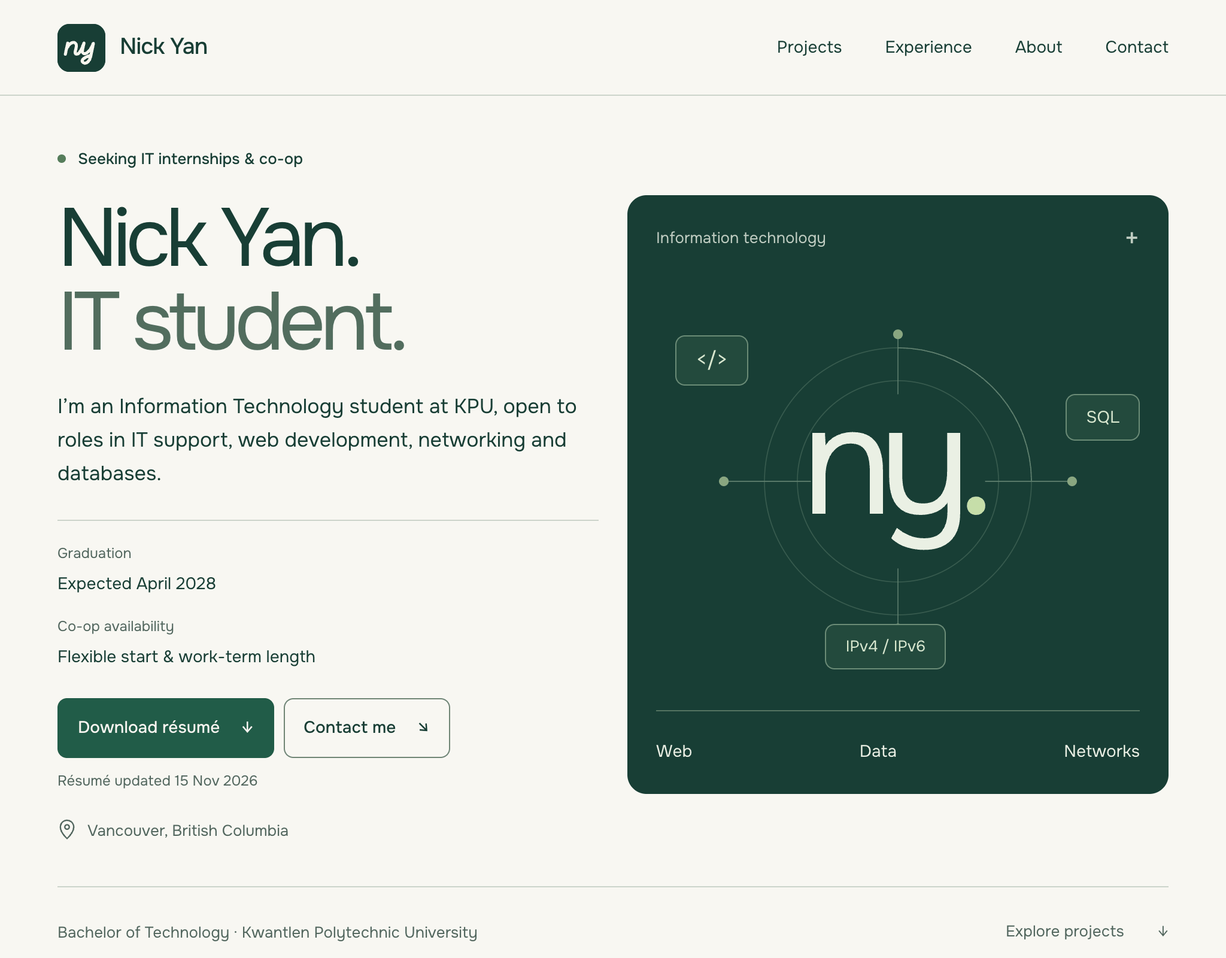
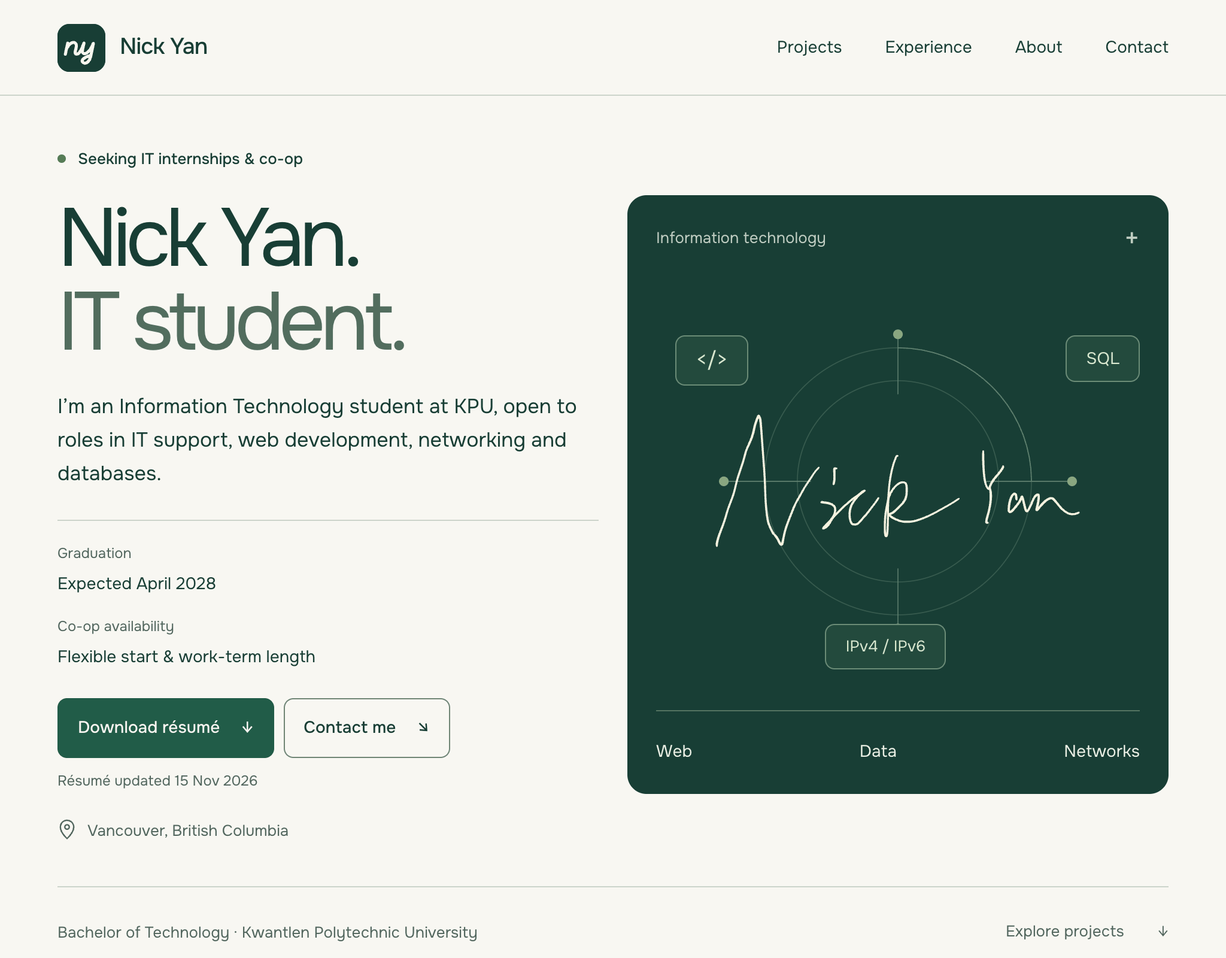
Add handwritten signature and refresh portfolio preview

diff --git a/styles.css b/styles.css
@@ -17,7 +17,7 @@
 /* Navigation stays in one place while the page scrolls normally. */
 .site-header{position:fixed;inset:0 0 auto;z-index:30;height:var(--nav);background:var(--bg);border-bottom:1px solid var(--line)}.nav-wrap{height:100%;display:flex;align-items:center;justify-content:space-between;gap:24px}.wordmark{display:inline-flex;align-items:center;gap:12px;min-height:44px;font-weight:500;font-size:19px;letter-spacing:-.5px}.monogram{display:grid;place-content:center;background:var(--ink);color:var(--bg);width:40px;height:40px;border-radius:10px;font-size:21px;letter-spacing:-1px}.nav nav{display:flex;align-items:center;gap:36px}.nav nav a{font-size:14px;min-height:44px;display:inline-flex;align-items:center;gap:8px;position:relative}.nav nav a::after{content:'';position:absolute;left:0;right:0;bottom:7px;height:1px;background:currentColor;transform:scaleX(0);transform-origin:left;transition:transform .18s var(--ease)}.nav nav a:hover::after,.nav nav a[aria-current]::after,.nav nav a:focus-visible::after{transform:scaleX(1)}.menu-toggle{display:none;border:1px solid var(--line-strong);background:transparent;border-radius:8px;min-height:44px;padding:0 12px;align-items:center;gap:12px}.menu-lines{position:relative;width:16px;height:10px;border-top:1px solid;border-bottom:1px solid}.menu-toggle[aria-expanded=true] .menu-lines{border:0}.menu-toggle[aria-expanded=true] .menu-lines::before,.menu-toggle[aria-expanded=true] .menu-lines::after{content:'';position:absolute;inset:4px 0 auto;height:1px;background:currentColor;transform:rotate(45deg)}.menu-toggle[aria-expanded=true] .menu-lines::after{transform:rotate(-45deg)}
 /* A spacious split hero; the identity drawing represents areas of study. */
-.hero{min-height:100svh;padding-top:calc(var(--nav) + 80px);padding-bottom:24px;display:flex}.hero-layout{display:grid;grid-template-columns:1.1fr 1fr;column-gap:64px;row-gap:64px;align-content:space-between}.hero-copy{align-self:center}.availability{font-size:13px;display:flex;align-items:center;gap:10px;font-weight:500}.status-dot{display:inline-block;width:7px;height:7px;border-radius:50%;background:#537b42;flex-shrink:0}.hero h1{font-size:clamp(64px,7.5vw,108px);line-height:1.01;letter-spacing:-.065em;margin:26px 0}.title-line{display:block;overflow:hidden;padding-bottom:.1em;margin-bottom:-.1em}.title-line>span{display:block}.hero h1 .title-line:last-child{color:#526d5e}.hero-intro{font-size:18px;line-height:1.65;max-width:440px}.hero-actions{display:flex;gap:12px;margin-top:32px;flex-wrap:wrap}.btn{display:inline-flex;align-items:center;justify-content:center;gap:18px;min-height:50px;padding:12px 20px;font-size:14px;font-weight:500;line-height:1.4;border-radius:8px;border:1px solid transparent}.btn--primary{background:var(--action);color:var(--p-action-ink)}.btn--secondary{border-color:var(--line-strong);background:transparent;color:var(--ink)}.hero-location{display:flex;align-items:center;gap:9px;font-size:13px;color:var(--muted);margin-top:32px}.hero-visual{background:#183e35;color:#eaf0e4;border-radius:var(--radius);padding:28px;display:flex;flex-direction:column;min-height:480px;max-height:580px;align-self:stretch;overflow:hidden}.visual-top{display:flex;align-items:center;justify-content:space-between;font-size:13px;color:#c0cec2}.visual-plus{font-size:24px;line-height:1}.identity-art{position:relative;flex:1;display:grid;place-items:center;min-height:320px}.circuit{position:absolute;inset:0;width:100%;height:100%;stroke:#86a58e;stroke-width:1;opacity:.65}.circuit circle:not(.circuit-end){stroke-opacity:.45}.circuit-end{fill:#c6dea9;stroke:none}.identity-mark{font-size:clamp(110px,12.5vw,180px);line-height:1;letter-spacing:-.09em;position:relative;padding-bottom:30px;padding-right:10px}.identity-mark>span{color:#c6dea9}.art-label{position:absolute;border:1px solid #6b8c76;border-radius:8px;background:#234a3d;color:#d8e8cd;padding:10px 16px;font-size:17px;line-height:1.2}.art-label-web{top:18%;left:4%}.art-label-data{right:0;top:31%;font-size:14px}.art-label-network{left:35%;bottom:9%;font-size:13px}.focus-areas{display:flex;border-top:1px solid #547461;padding-top:22px;justify-content:space-between;font-size:14px}.hero-foot{grid-column:1/-1;display:flex;justify-content:space-between;align-items:center;border-top:1px solid var(--line);padding-top:16px;gap:24px;font-size:13px;color:var(--muted);min-height:56px}.hero-foot a{min-height:44px;display:inline-flex;align-items:center;gap:28px}
+.hero{min-height:100svh;padding-top:calc(var(--nav) + 80px);padding-bottom:24px;display:flex}.hero-layout{display:grid;grid-template-columns:1.1fr 1fr;column-gap:64px;row-gap:64px;align-content:space-between}.hero-copy{align-self:center}.availability{font-size:13px;display:flex;align-items:center;gap:10px;font-weight:500}.status-dot{display:inline-block;width:7px;height:7px;border-radius:50%;background:#537b42;flex-shrink:0}.hero h1{font-size:clamp(64px,7.5vw,108px);line-height:1.01;letter-spacing:-.065em;margin:26px 0}.title-line{display:block;overflow:hidden;padding-bottom:.1em;margin-bottom:-.1em}.title-line>span{display:block}.hero h1 .title-line:last-child{color:#526d5e}.hero-intro{font-size:18px;line-height:1.65;max-width:440px}.hero-actions{display:flex;gap:12px;margin-top:32px;flex-wrap:wrap}.btn{display:inline-flex;align-items:center;justify-content:center;gap:18px;min-height:50px;padding:12px 20px;font-size:14px;font-weight:500;line-height:1.4;border-radius:8px;border:1px solid transparent}.btn--primary{background:var(--action);color:var(--p-action-ink)}.btn--secondary{border-color:var(--line-strong);background:transparent;color:var(--ink)}.hero-location{display:flex;align-items:center;gap:9px;font-size:13px;color:var(--muted);margin-top:32px}.hero-visual{background:#183e35;color:#eaf0e4;border-radius:var(--radius);padding:28px;display:flex;flex-direction:column;min-height:480px;max-height:580px;align-self:stretch;overflow:hidden}.visual-top{display:flex;align-items:center;justify-content:space-between;font-size:13px;color:#c0cec2}.visual-plus{font-size:24px;line-height:1}.identity-art{position:relative;flex:1;display:grid;place-items:center;min-height:320px}.circuit{position:absolute;inset:0;width:100%;height:100%;stroke:#86a58e;stroke-width:1;opacity:.65}.circuit circle:not(.circuit-end){stroke-opacity:.45}.circuit-end{fill:#c6dea9;stroke:none}.identity-signature{position:absolute;inset:0;margin:auto;width:76%;max-width:360px;height:45%;object-fit:contain}.art-label{position:absolute;border:1px solid #6b8c76;border-radius:8px;background:#234a3d;color:#d8e8cd;padding:10px 16px;font-size:17px;line-height:1.2}.art-label-web{top:18%;left:4%}.art-label-data{right:0;top:18%;font-size:14px}.art-label-network{left:35%;bottom:9%;font-size:13px}.focus-areas{display:flex;border-top:1px solid #547461;padding-top:22px;justify-content:space-between;font-size:14px}.hero-foot{grid-column:1/-1;display:flex;justify-content:space-between;align-items:center;border-top:1px solid var(--line);padding-top:16px;gap:24px;font-size:13px;color:var(--muted);min-height:56px}.hero-foot a{min-height:44px;display:inline-flex;align-items:center;gap:28px}
 .section{padding:112px 0;min-height:100svh}.section-heading{display:flex;justify-content:space-between;align-items:flex-start;gap:32px;margin-bottom:56px}.section-heading>p{font-size:16px;color:var(--ink);min-width:260px}.heading-dot{color:#63845c}.projects{background:#eeeee6}.project-grid{display:grid;grid-template-columns:repeat(3,minmax(0,1fr));gap:24px;align-items:start}.project{min-width:0}.project-visual{height:240px;border-radius:var(--radius);display:flex;align-items:center;justify-content:center;overflow:hidden}.project-copy{padding-top:24px}.project-meta{color:var(--muted);font-size:13px;margin-bottom:8px}.project-copy>p:not(.project-meta){margin-top:16px;min-height:80px}.project h3{font-size:25px;letter-spacing:-.04em}.tags{list-style:none;padding:0;display:flex;flex-wrap:wrap;gap:8px;margin:24px 0}.tags li{font-size:12px;padding:4px 8px;border:1px solid #b5c2b0;border-radius:5px;line-height:1.4}details{border-top:1px solid #b9c6b5;border-bottom:1px solid #b9c6b5}summary{list-style:none;display:flex;align-items:center;justify-content:space-between;min-height:52px;padding:10px 0;font-size:14px;font-weight:500;gap:12px}summary::-webkit-details-marker{display:none}summary span{font-size:24px;font-weight:400;line-height:1;transition:transform .2s}details[open] summary span{transform:rotate(45deg)}summary:hover{color:#356d3c}.project-detail{padding:0 0 20px;font-size:15px}.project-detail .detail-context{font-size:13px;color:var(--muted);margin-top:16px}.projects-footer{display:flex;flex-direction:column;align-items:flex-end;gap:8px;margin-top:48px;font-size:14px;text-align:right}.projects-footer a{min-height:44px;display:inline-flex;align-items:center;gap:24px}.link{--line-strong:currentColor}
 /* Small conceptual diagrams, without pretending to be project screenshots. */
 .visual-web{background:#dce6d2}.mini-browser{width:78%;border:1px solid #8ba27f;border-radius:9px;background:#f8f7f2;overflow:hidden}.browser-bar{height:30px;border-bottom:1px solid #c3cebc;display:flex;align-items:center;gap:4px;padding:0 10px}.browser-bar i{width:4px;height:4px;background:#8ba27f;border-radius:50%}.browser-bar span{margin-left:auto;font-size:10px;color:#53694a}.browser-body{padding:18px}.mini-wordmark{font-size:14px;letter-spacing:-.6px;font-weight:500}.mini-columns{display:grid;grid-template-columns:1fr 1fr;gap:16px;align-items:center;margin-top:14px}.mini-line{height:5px;width:70%;background:#aabda0;margin:8px 0}.mini-line.long{width:100%}.mini-button{width:38px;height:14px;margin-top:14px;background:#35604b;border-radius:2px}.mini-portrait{display:grid;place-items:center;height:66px;background:#234a3d;color:#deebd4;font-size:38px;line-height:1;letter-spacing:-3px;border-radius:3px}.mini-footer{display:flex;gap:7px;margin-top:18px}.mini-footer i{height:3px;background:#ced7c6;width:33%}.visual-data{background:#e5e3d8;padding:20px;gap:0}.schema-table{font-size:10px;border:1px solid #9ca68d;border-radius:7px;overflow:hidden;width:42%;background:#f8f7f2}.schema-table strong{font-weight:500;font-size:13px;display:block;background:#d0d8c3;padding:10px}.schema-table span{display:block;padding:8px;border-top:1px solid #d4daca;white-space:nowrap}.schema-table b{font-size:9px;font-weight:500;background:#dbe4cf;padding:2px;margin-right:2px}.schema-connector{width:16%;display:flex;align-items:center;font-size:11px;gap:3px}.schema-connector i{height:1px;background:#8b9f7e;flex:1}.visual-network{background:#dbe4df}.topology{width:76%;font-size:13px;position:relative}.router{width:105px;margin:auto;border:1px solid #648576;background:#f8f7f2;border-radius:6px;padding:9px 12px;display:flex;justify-content:space-between;align-items:center}.router span{font-size:21px;line-height:1}.network-trunk{height:27px;width:1px;background:#648576;margin:auto}.switch-row{display:flex;justify-content:space-between;position:relative;padding-top:20px}.switch-row::before{content:'';position:absolute;left:17%;right:17%;top:0;border-top:1px solid #648576}.switch-row>div{border:1px solid #648576;background:#f8f7f2;border-radius:5px;padding:8px 12px;position:relative}.switch-row>div::before{content:'';position:absolute;top:-21px;left:50%;height:20px;width:1px;background:#648576}.endpoint-row{display:flex;justify-content:space-around;margin-top:26px}.endpoint-row i{width:24px;height:17px;background:#c0d4c4;border:1px solid #648576;border-radius:2px;position:relative}.endpoint-row i::before{content:'';position:absolute;left:50%;top:-27px;height:26px;width:1px;background:#8aa594}
@@ -26,8 +26,8 @@
 .contact{background:#183e35;color:#f8f7f2;padding-bottom:32px;--bg:#183e35;--ink:#f8f7f2;--line:#547461;--muted:#bdcdbc;--action:#e1edce}.contact .status-dot{background:#bfdaa1}.contact .availability{color:#c8d8c0}.contact h2{font-size:clamp(60px,8vw,116px);letter-spacing:-.06em;line-height:1.04;margin-top:28px}.contact h2>span{color:#bed7a2}.contact-layout{display:grid;grid-template-columns:1.5fr 1fr;gap:80px;align-items:start;margin-top:48px}.contact-layout p{color:#d4dfd0;font-size:17px}.contact-email{display:inline-flex;align-items:center;gap:28px;min-height:50px;font-size:clamp(17px,2vw,27px);margin-top:24px;letter-spacing:-.03em}.contact-phone{display:flex;align-items:center;gap:16px;width:fit-content;min-height:44px;margin-top:8px;font-size:18px;letter-spacing:.01em;color:#d4dfd0}.contact-links a{display:flex;justify-content:space-between;align-items:center;gap:24px;min-height:56px;border-bottom:1px solid #547461;font-size:16px;transition:color .2s}.contact-links a:first-child{border-top:1px solid #547461}.contact-links a:hover{color:#c6e6a5}.contact-links a>span{font-size:13px}.contact :focus-visible{outline-color:#c6e6a5}.site-footer{display:flex;justify-content:space-between;align-items:center;gap:32px;border-top:1px solid #547461;margin-top:80px;padding-top:24px;font-size:13px;color:#c8d8c0}.site-footer>a{min-height:44px;display:inline-flex;align-items:center}.footer-name{font-size:26px;color:#f8f7f2;letter-spacing:-1px}.footer-name>span{color:#bed7a2}
 @media(min-width:1600px){.hero{padding-top:calc(var(--nav) + 100px);padding-bottom:32px}.hero-layout{row-gap:80px}}
 @media(max-width:1199px){:root{--gut:48px}.hero{padding-top:calc(var(--nav) + 56px)}.hero-layout{gap:48px 40px}.hero h1{font-size:clamp(60px,7.1vw,88px)}.hero-visual{min-height:440px;padding:24px}.hero-intro{font-size:17px}.hero-actions{gap:8px}.btn{padding:12px 16px}.project-visual{height:210px}.project h3{font-size:22px}.project-copy>p:not(.project-meta){min-height:106px}.schema-table span{font-size:9px;padding:8px 4px}.schema-table b{font-size:8px}.about-grid{gap:56px}.experience-entry{gap:24px}.section{padding:96px 0}.contact{padding-bottom:32px}}
-@media(max-width:900px){:root{--nav:72px}.nav nav{gap:24px}.hero{padding-top:112px}.hero-layout{grid-template-columns:1fr;gap:32px}.hero-copy{max-width:620px}.hero h1{font-size:76px;margin:20px 0}.hero-intro{max-width:570px}.hero-actions{margin-top:24px}.hero-location{margin-top:24px}.hero-visual{height:300px;min-height:0;max-height:none}.identity-art{min-height:0}.identity-mark{font-size:130px;padding-bottom:15px}.art-label-web{top:12%;left:22%}.art-label-data{right:21%;top:22%}.art-label-network{left:42%;bottom:6%}.focus-areas{padding-top:14px}.hero-foot{grid-column:1;gap:16px}.section-heading{display:block;margin-bottom:40px}.section-heading>p{margin-top:20px}.project-grid{grid-template-columns:1fr;gap:40px}.project{display:grid;grid-template-columns:1fr 1fr;gap:28px;align-items:start}.project-visual{height:255px}.project-copy{padding-top:0}.project-copy>p:not(.project-meta){min-height:0}.tags{margin:20px 0}.experience-entry{grid-template-columns:1fr 1.7fr}.experience-entry>p{grid-column:2}.experience-entry>div:first-child{grid-row:1/3}.about-grid{gap:40px}.skill-row{display:block;padding:16px 0}.skill-row p{margin-top:10px}.education-mark{font-size:80px}.languages p{display:block}.languages p>span{display:block;text-align:left;margin-top:2px}.contact-layout{gap:40px}.contact h2{font-size:84px}.contact-email{gap:12px}}
-@media(max-width:620px){:root{--gut:24px;--nav:64px}.wordmark{font-size:17px;gap:10px}.monogram{width:34px;height:34px;font-size:19px;border-radius:8px}.js .menu-toggle{display:inline-flex}.js .nav nav{display:none;position:fixed;top:var(--nav);left:0;right:0;bottom:0;background:var(--bg);padding:32px 24px;overflow-y:auto;align-content:start;gap:0}.js .nav nav.is-open{display:flex;flex-direction:column;align-items:stretch}.js .nav nav a{font-size:30px;min-height:76px;border-bottom:1px solid var(--line);justify-content:space-between}.js .nav nav a::after{display:none}body.menu-open{overflow:hidden}.hero{padding-top:96px;padding-bottom:24px}.hero-layout{gap:28px}.hero h1{font-size:clamp(48px,12.8vw,72px);margin:20px 0}.hero-intro{font-size:16px;line-height:1.6}.availability{font-size:12px;gap:8px}.hero-actions{display:grid;grid-template-columns:1fr;margin-top:24px;gap:10px}.btn{min-height:46px;font-size:14px;justify-content:space-between;padding-inline:16px}.hero-location{font-size:12px;margin-top:20px}.hero-visual{height:235px;padding:20px;border-radius:12px}.visual-top{font-size:11px}.visual-plus{font-size:19px}.identity-mark{font-size:100px;padding-bottom:14px}.art-label{padding:6px 10px;border-radius:5px}.art-label-web{top:14%;left:7%;font-size:13px}.art-label-data{right:3%;top:24%;font-size:11px}.art-label-network{left:36%;bottom:2%;font-size:10px}.focus-areas{font-size:12px;padding-top:12px}.hero-foot{display:none}.section{padding:80px 0;min-height:0}.section-heading{margin-bottom:32px}.section-heading>p{font-size:15px;margin-top:16px;min-width:0}.section-heading>p br{display:none}h2{font-size:34px;letter-spacing:-.05em}.project-grid{gap:48px}.project{display:block}.project-visual{height:232px;border-radius:12px}.project-copy{padding-top:20px}.project h3{font-size:25px}.project-copy>p:not(.project-meta){font-size:16px;margin-top:12px}.project-meta{font-size:13px}.tags{margin:20px 0}.tags li{font-size:12px}summary{font-size:14px;min-height:52px}.schema-table{font-size:11px}.schema-table strong{font-size:14px;padding:10px}.schema-table span{font-size:10px;padding:8px}.schema-table b{font-size:9px}.projects-footer{margin-top:32px;font-size:14px}.experience-statement{font-size:27px;line-height:1.4;margin-top:28px}.experience-list{margin-top:36px}.experience-entry{display:block;padding:28px 0}.experience-entry>div:first-child{display:flex;align-items:center;justify-content:space-between;gap:12px;margin-bottom:20px}.experience-date{font-size:12px;margin:0;white-space:nowrap}.experience-category{font-size:11px;text-align:right}.experience-entry h3{font-size:26px}.experience-entry>p{margin-top:16px}.about-grid{grid-template-columns:1fr;gap:44px}.education-mark{font-size:90px;margin-bottom:28px}.education h3{font-size:25px}.languages p{display:flex}.languages p>span{text-align:right;margin:0;max-width:56%}.skills>h3{font-size:25px;margin-bottom:24px}.skill-row{display:grid;grid-template-columns:.9fr 1.3fr;gap:16px;padding:18px 0}.skill-row p{margin-top:0;font-size:13px}.skill-row h4{font-size:13px}.contact{padding-bottom:24px}.contact h2{font-size:clamp(56px,15vw,80px);margin-top:24px}.contact-layout{grid-template-columns:1fr;gap:32px;margin-top:32px}.contact-layout p{font-size:16px}.contact-layout p br{display:none}.contact-email{font-size:clamp(15px,4.7vw,22px);letter-spacing:-.025em;gap:14px;margin-top:18px}.contact-phone{font-size:16px}.contact-links a{font-size:16px;min-height:56px}.site-footer{display:grid;grid-template-columns:1fr auto;gap:12px;margin-top:48px;padding-top:20px}.site-footer p{grid-column:1/-1;grid-row:2;font-size:12px}.footer-name{font-size:24px}
+@media(max-width:900px){:root{--nav:72px}.nav nav{gap:24px}.hero{padding-top:112px}.hero-layout{grid-template-columns:1fr;gap:32px}.hero-copy{max-width:620px}.hero h1{font-size:76px;margin:20px 0}.hero-intro{max-width:570px}.hero-actions{margin-top:24px}.hero-location{margin-top:24px}.hero-visual{height:300px;min-height:0;max-height:none}.identity-art{min-height:0}.art-label-web{top:3%;left:12%}.art-label-data{right:12%;top:3%}.art-label-network{left:50%;bottom:0;transform:translateX(-50%)}.focus-areas{padding-top:14px}.hero-foot{grid-column:1;gap:16px}.section-heading{display:block;margin-bottom:40px}.section-heading>p{margin-top:20px}.project-grid{grid-template-columns:1fr;gap:40px}.project{display:grid;grid-template-columns:1fr 1fr;gap:28px;align-items:start}.project-visual{height:255px}.project-copy{padding-top:0}.project-copy>p:not(.project-meta){min-height:0}.tags{margin:20px 0}.experience-entry{grid-template-columns:1fr 1.7fr}.experience-entry>p{grid-column:2}.experience-entry>div:first-child{grid-row:1/3}.about-grid{gap:40px}.skill-row{display:block;padding:16px 0}.skill-row p{margin-top:10px}.education-mark{font-size:80px}.languages p{display:block}.languages p>span{display:block;text-align:left;margin-top:2px}.contact-layout{gap:40px}.contact h2{font-size:84px}.contact-email{gap:12px}}
+@media(max-width:620px){:root{--gut:24px;--nav:64px}.wordmark{font-size:17px;gap:10px}.monogram{width:34px;height:34px;font-size:19px;border-radius:8px}.js .menu-toggle{display:inline-flex}.js .nav nav{display:none;position:fixed;top:var(--nav);left:0;right:0;bottom:0;background:var(--bg);padding:32px 24px;overflow-y:auto;align-content:start;gap:0}.js .nav nav.is-open{display:flex;flex-direction:column;align-items:stretch}.js .nav nav a{font-size:30px;min-height:76px;border-bottom:1px solid var(--line);justify-content:space-between}.js .nav nav a::after{display:none}body.menu-open{overflow:hidden}.hero{padding-top:96px;padding-bottom:24px}.hero-layout{gap:28px}.hero h1{font-size:clamp(48px,12.8vw,72px);margin:20px 0}.hero-intro{font-size:16px;line-height:1.6}.availability{font-size:12px;gap:8px}.hero-actions{display:grid;grid-template-columns:1fr;margin-top:24px;gap:10px}.btn{min-height:46px;font-size:14px;justify-content:space-between;padding-inline:16px}.hero-location{font-size:12px;margin-top:20px}.hero-visual{height:235px;padding:20px;border-radius:12px}.visual-top{font-size:11px}.visual-plus{font-size:19px}.art-label{padding:6px 10px;border-radius:5px}.art-label-web{top:14%;left:7%;font-size:13px}.art-label-data{right:3%;top:24%;font-size:11px}.art-label-network{left:36%;bottom:2%;font-size:10px}.focus-areas{font-size:12px;padding-top:12px}.hero-foot{display:none}.section{padding:80px 0;min-height:0}.section-heading{margin-bottom:32px}.section-heading>p{font-size:15px;margin-top:16px;min-width:0}.section-heading>p br{display:none}h2{font-size:34px;letter-spacing:-.05em}.project-grid{gap:48px}.project{display:block}.project-visual{height:232px;border-radius:12px}.project-copy{padding-top:20px}.project h3{font-size:25px}.project-copy>p:not(.project-meta){font-size:16px;margin-top:12px}.project-meta{font-size:13px}.tags{margin:20px 0}.tags li{font-size:12px}summary{font-size:14px;min-height:52px}.schema-table{font-size:11px}.schema-table strong{font-size:14px;padding:10px}.schema-table span{font-size:10px;padding:8px}.schema-table b{font-size:9px}.projects-footer{margin-top:32px;font-size:14px}.experience-statement{font-size:27px;line-height:1.4;margin-top:28px}.experience-list{margin-top:36px}.experience-entry{display:block;padding:28px 0}.experience-entry>div:first-child{display:flex;align-items:center;justify-content:space-between;gap:12px;margin-bottom:20px}.experience-date{font-size:12px;margin:0;white-space:nowrap}.experience-category{font-size:11px;text-align:right}.experience-entry h3{font-size:26px}.experience-entry>p{margin-top:16px}.about-grid{grid-template-columns:1fr;gap:44px}.education-mark{font-size:90px;margin-bottom:28px}.education h3{font-size:25px}.languages p{display:flex}.languages p>span{text-align:right;margin:0;max-width:56%}.skills>h3{font-size:25px;margin-bottom:24px}.skill-row{display:grid;grid-template-columns:.9fr 1.3fr;gap:16px;padding:18px 0}.skill-row p{margin-top:0;font-size:13px}.skill-row h4{font-size:13px}.contact{padding-bottom:24px}.contact h2{font-size:clamp(56px,15vw,80px);margin-top:24px}.contact-layout{grid-template-columns:1fr;gap:32px;margin-top:32px}.contact-layout p{font-size:16px}.contact-layout p br{display:none}.contact-email{font-size:clamp(15px,4.7vw,22px);letter-spacing:-.025em;gap:14px;margin-top:18px}.contact-phone{font-size:16px}.contact-links a{font-size:16px;min-height:56px}.site-footer{display:grid;grid-template-columns:1fr auto;gap:12px;margin-top:48px;padding-top:20px}.site-footer p{grid-column:1/-1;grid-row:2;font-size:12px}.footer-name{font-size:24px}
 html:not(.js) .site-header{position:relative;height:auto}html:not(.js) .nav-wrap{flex-direction:column;align-items:flex-start;padding-block:16px;gap:12px}html:not(.js) .nav nav{display:flex;gap:20px;flex-wrap:wrap}html:not(.js) .nav nav a{font-size:13px}html:not(.js) .hero{padding-top:40px}}
 @media(prefers-reduced-motion:reduce){html{scroll-behavior:auto}*,*::before,*::after{animation-duration:.01ms!important;transition-duration:.01ms!important}.experience-statement .word{color:var(--ink)!important}}
 @media print{.site-header,.hero-visual,.project-visual,.hero-foot,.hero-actions,.contact-links,.skip-link{display:none!important}.wrap{width:100%}.hero,.section{padding:24px 0;min-height:0;height:auto;background:white!important;color:#183e35!important}.hero h1{font-size:48px}.hero-copy{max-width:none}.project-grid,.about-grid{display:block}.project{break-inside:avoid;display:block;margin-bottom:24px}.project-copy{padding:0}.experience-statement{font-size:24px}.experience-statement .word{color:#183e35!important}.contact h2{font-size:48px}.contact p,.contact a{color:#183e35!important}.contact-layout{display:block}.site-footer{margin-top:24px}.tags{margin:12px 0}details{display:block}.project-detail{display:block!important}h2,h3{break-after:avoid}a[href^="https"]::after{content:' (' attr(href) ')';font-size:10px}}
@@ -116,8 +116,9 @@ html:not(.js) .site-header{position:relative;height:auto}html:not(.js) .nav-wrap
   .contact-layout{grid-template-columns:1fr 1fr;gap:24px}
 }
 @media(max-width:620px){
-  .hero-visual{height:112px;padding:16px;justify-content:space-between}
-  .hero-visual .identity-art{display:none}
+  .hero-visual{height:192px;padding:16px}
+  .hero-visual .art-label{display:none}
+  .identity-signature{height:76%;max-width:254px}
   .hero-visual .focus-areas{padding-top:12px}
   .contact h2{font-size:clamp(42px,12vw,60px)}
 }

diff --git a/index.html b/index.html
@@ -52,7 +52,7 @@
   </script>
   <link rel="preload" href="assets/fonts/Onest-400.ttf" as="font" type="font/ttf" crossorigin>
   <link rel="preload" href="assets/fonts/Onest-500.ttf" as="font" type="font/ttf" crossorigin>
-  <link rel="stylesheet" href="styles.css?v=183c8b189e8a">
+  <link rel="stylesheet" href="styles.css?v=4f35105a0e3f">
   <link rel="stylesheet" href="assets/taste/motion.css">
   <link rel="stylesheet" href="assets/bookmarks.css?v=b0c3b20fd900">
   <script src="assets/bookmarks.js?v=9242cefb4800" defer></script>
@@ -124,9 +124,9 @@
           <p class="resume-updated hero-enter">Résumé updated <time datetime="2026-11-15">15 Nov 2026</time></p>
           <p class="hero-location hero-enter"><svg width="16" height="20" viewBox="0 0 20 24" fill="none" aria-hidden="true"><path d="M17 9c0 6-7 12-7 12S3 15 3 9a7 7 0 0 1 14 0Z" stroke="currentColor" stroke-width="1.5"/><circle cx="10" cy="9" r="2.3" stroke="currentColor" stroke-width="1.5"/></svg> Vancouver, British Columbia</p>
         </div>
-        <div class="hero-visual" role="img" aria-label="Nick’s three areas of study: web development, databases and networking">
+        <div class="hero-visual" role="img" aria-label="Nick Yan’s handwritten signature surrounded by his areas of study: web development, databases and networking">
           <div class="visual-top"><span>Information technology</span><span class="visual-plus" aria-hidden="true">+</span></div>
-          <div class="identity-art" aria-hidden="true"><svg class="circuit" viewBox="0 0 500 400" fill="none"><path class="circuit-path" d="M250 48V110M70 200H160M340 200H430M250 290V352"/><circle cx="250" cy="200" r="138"/><circle cx="250" cy="200" r="104"/><path class="circuit-path" d="M250 62C326 62 388 124 388 200"/><circle class="circuit-end" cx="250" cy="48" r="5"/><circle class="circuit-end" cx="70" cy="200" r="5"/><circle class="circuit-end" cx="430" cy="200" r="5"/><circle class="circuit-end" cx="250" cy="352" r="5"/></svg><span class="identity-mark">ny<span>.</span></span><span class="art-label art-label-web">&lt;/&gt;</span><span class="art-label art-label-data">SQL</span><span class="art-label art-label-network">IPv4 / IPv6</span></div>
+          <div class="identity-art" aria-hidden="true"><svg class="circuit" viewBox="0 0 500 400" fill="none"><path class="circuit-path" d="M250 48V110M70 200H160M340 200H430M250 290V352"/><circle cx="250" cy="200" r="138"/><circle cx="250" cy="200" r="104"/><path class="circuit-path" d="M250 62C326 62 388 124 388 200"/><circle class="circuit-end" cx="250" cy="48" r="5"/><circle class="circuit-end" cx="70" cy="200" r="5"/><circle class="circuit-end" cx="430" cy="200" r="5"/><circle class="circuit-end" cx="250" cy="352" r="5"/></svg><img class="identity-signature" src="assets/images/nick-yan-signature.svg?v=e687596fb7dc" width="1655" height="620" alt=""><span class="art-label art-label-web">&lt;/&gt;</span><span class="art-label art-label-data">SQL</span><span class="art-label art-label-network">IPv4 / IPv6</span></div>
           <div class="focus-areas"><span>Web</span><span>Data</span><span>Networks</span></div>
         </div>
         <div class="hero-foot"><span>Bachelor of Technology · Kwantlen Polytechnic University</span><a class="m-link m-link--bare" href="#projects">Explore projects <span aria-hidden="true">↓</span></a></div>
@@ -172,7 +172,7 @@
           <details><summary>View project details <span aria-hidden="true">+</span></summary><div class="project-detail"><h4>Setup</h4><p>Connected Ubuntu and Kali virtual machines, used SSH, and configured Apache with a self-signed certificate and local hostname mapping.</p><h4>Verification</h4><p>Saved a configuration diff, checked Apache syntax, tested connectivity and opened the HTTPS page from the client. The saved ping test shows four replies with zero packet loss.</p><a class="evidence-link" href="coursework.html#linux-https">View HTTPS, configuration &amp; ping evidence <span aria-hidden="true">↗</span></a><p class="detail-context">Local academic lab using a self-signed certificate. Screenshots document the completed exercise.</p></div></details></div>
         </article>
         <article class="project" id="project-portfolio" data-tab-label="Website">
-          <a class="project-visual visual-capture" href="assets/images/portfolio-live.png?v=3fb0e1fe4d79" aria-label="Open the portfolio homepage screenshot at full size"><img src="assets/images/portfolio-live.png?v=3fb0e1fe4d79" alt="Nick Yan’s current homepage with his signature logo, graduation date, co-op availability and contact button" width="2048" height="1600" loading="lazy"></a>
+          <a class="project-visual visual-capture" href="assets/images/portfolio-live.png?v=3d7b421b3565" aria-label="Open the portfolio homepage screenshot at full size"><img src="assets/images/portfolio-live.png?v=3d7b421b3565" alt="Nick Yan’s portfolio homepage with his handwritten signature in the green panel, graduation date, co-op availability and contact button" width="2048" height="1600" loading="lazy"></a>
           <div class="project-copy"><p class="project-meta">06 / Web development · AI-assisted build</p><h3>This portfolio website</h3><p>A single place to view my work, download my résumé and get in touch, on a phone or desktop.</p>
           <ul class="tags" aria-label="Technologies"><li>HTML &amp; CSS</li><li>JavaScript</li><li>GSAP</li><li>GitHub Pages</li></ul>
           <details><summary>View project details <span aria-hidden="true">+</span></summary><div class="project-detail"><h4>Purpose</h4><p>Turn a résumé and course projects into an accessible website for internship applications.</p><h4>Implementation</h4><p>Semantic HTML, responsive CSS, a mobile navigation menu, keyboard-accessible project tabs and expandable project details. CSS handles the entrance animation, while GSAP highlights text on scroll. Both respect reduced-motion preferences. Static files are hosted on GitHub Pages.</p><h4>My role</h4><p>I supplied the résumé and project material, directed the content and design changes, and reviewed the result. AI assisted with the implementation.</p><p class="detail-context">Earlier coursework: a four-page HTML/CSS portfolio with a basic JavaScript interaction.</p><a class="evidence-link" href="https://github.com/MrSomebOdyYY/nick-yan-it-resume" target="_blank" rel="noopener noreferrer">View published website source <span aria-hidden="true">↗</span></a></div></details></div>

diff --git a/coursework.html b/coursework.html
@@ -8,7 +8,7 @@
   <title>Coursework evidence — Nick Yan</title>
   <link rel="icon" href="assets/favicon.svg?v=0b24b67cceda" type="image/svg+xml" sizes="any">
   <link rel="preload" href="assets/fonts/Onest-400.ttf" as="font" type="font/ttf" crossorigin>
-  <link rel="stylesheet" href="styles.css?v=183c8b189e8a">
+  <link rel="stylesheet" href="styles.css?v=4f35105a0e3f">
   <link rel="stylesheet" href="coursework.css?v=457420ed25a2">
 </head>
 <body class="evidence-page">

diff --git a/refresh-asset-versions.py b/refresh-asset-versions.py
@@ -12,7 +12,7 @@ import sys
 ROOT = Path(__file__).resolve().parent
 ASSETS = ("styles.css", "coursework.css", "script.js", "assets/bookmarks.css",
           "assets/bookmarks.js", "assets/favicon.svg", "assets/NickYan_IT_Resume.pdf",
-          "assets/images/portfolio-live.png", "assets/evidence/packet-tracer-topology-osi.png",
+          "assets/images/nick-yan-signature.svg", "assets/images/portfolio-live.png", "assets/evidence/packet-tracer-topology-osi.png",
           "assets/evidence/packet-tracer-topology-pdu.png")
 
 
